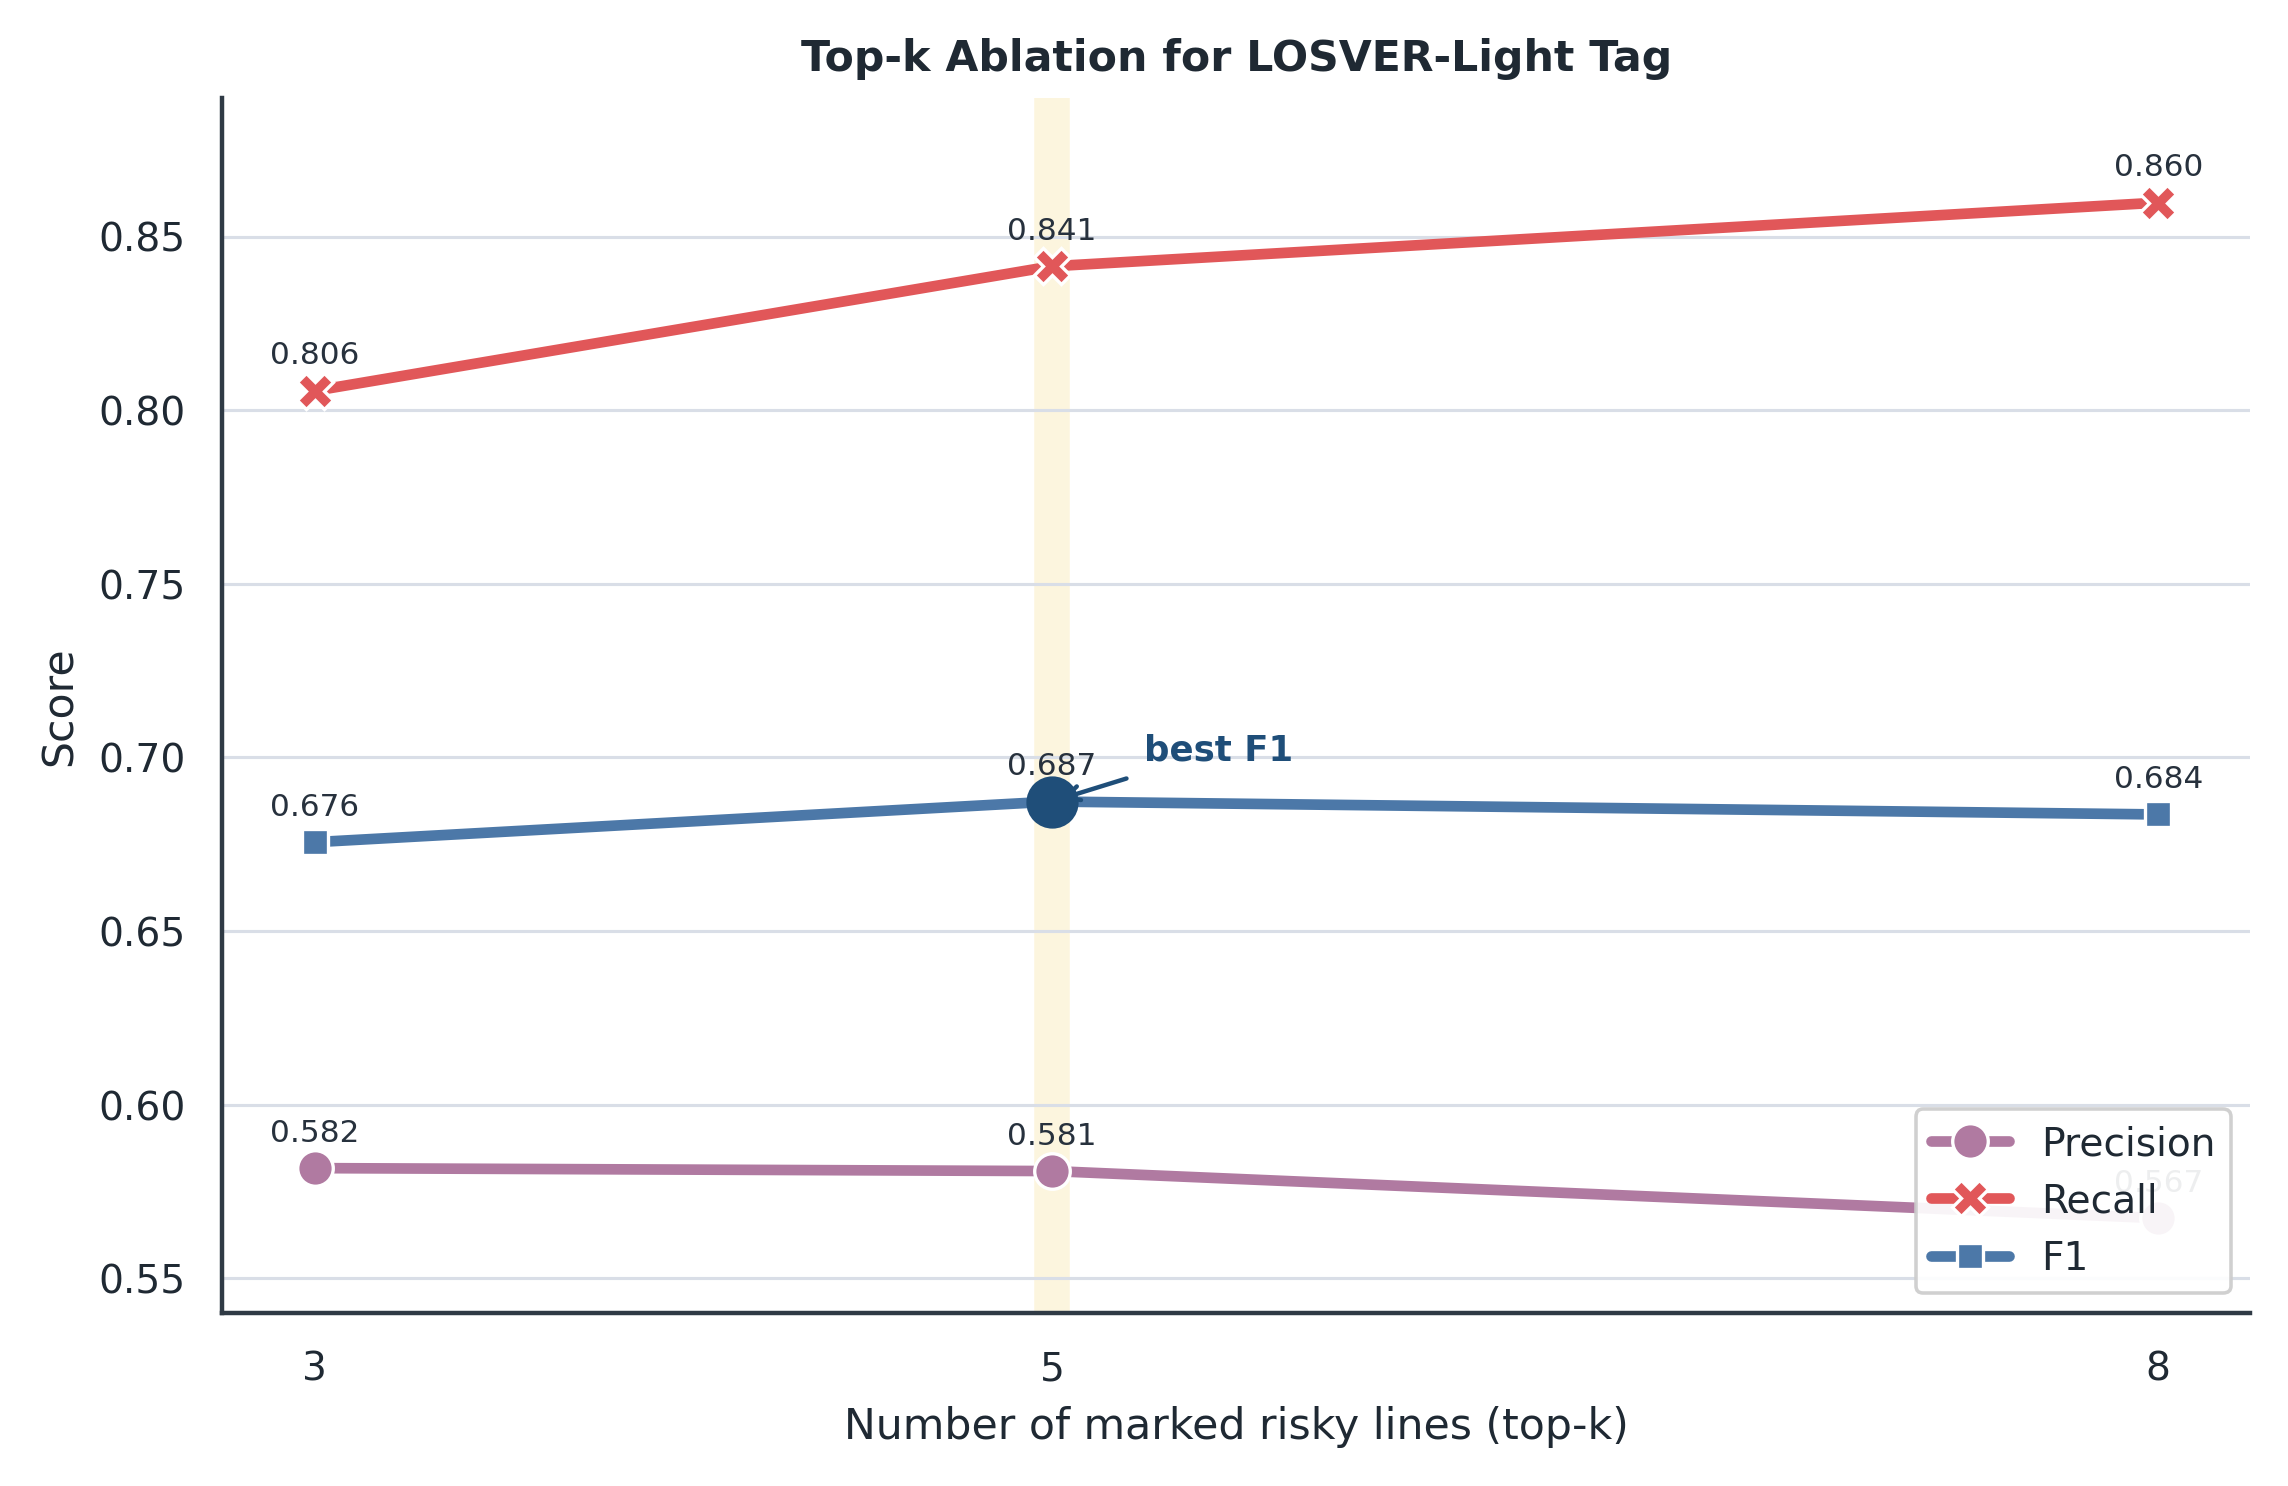
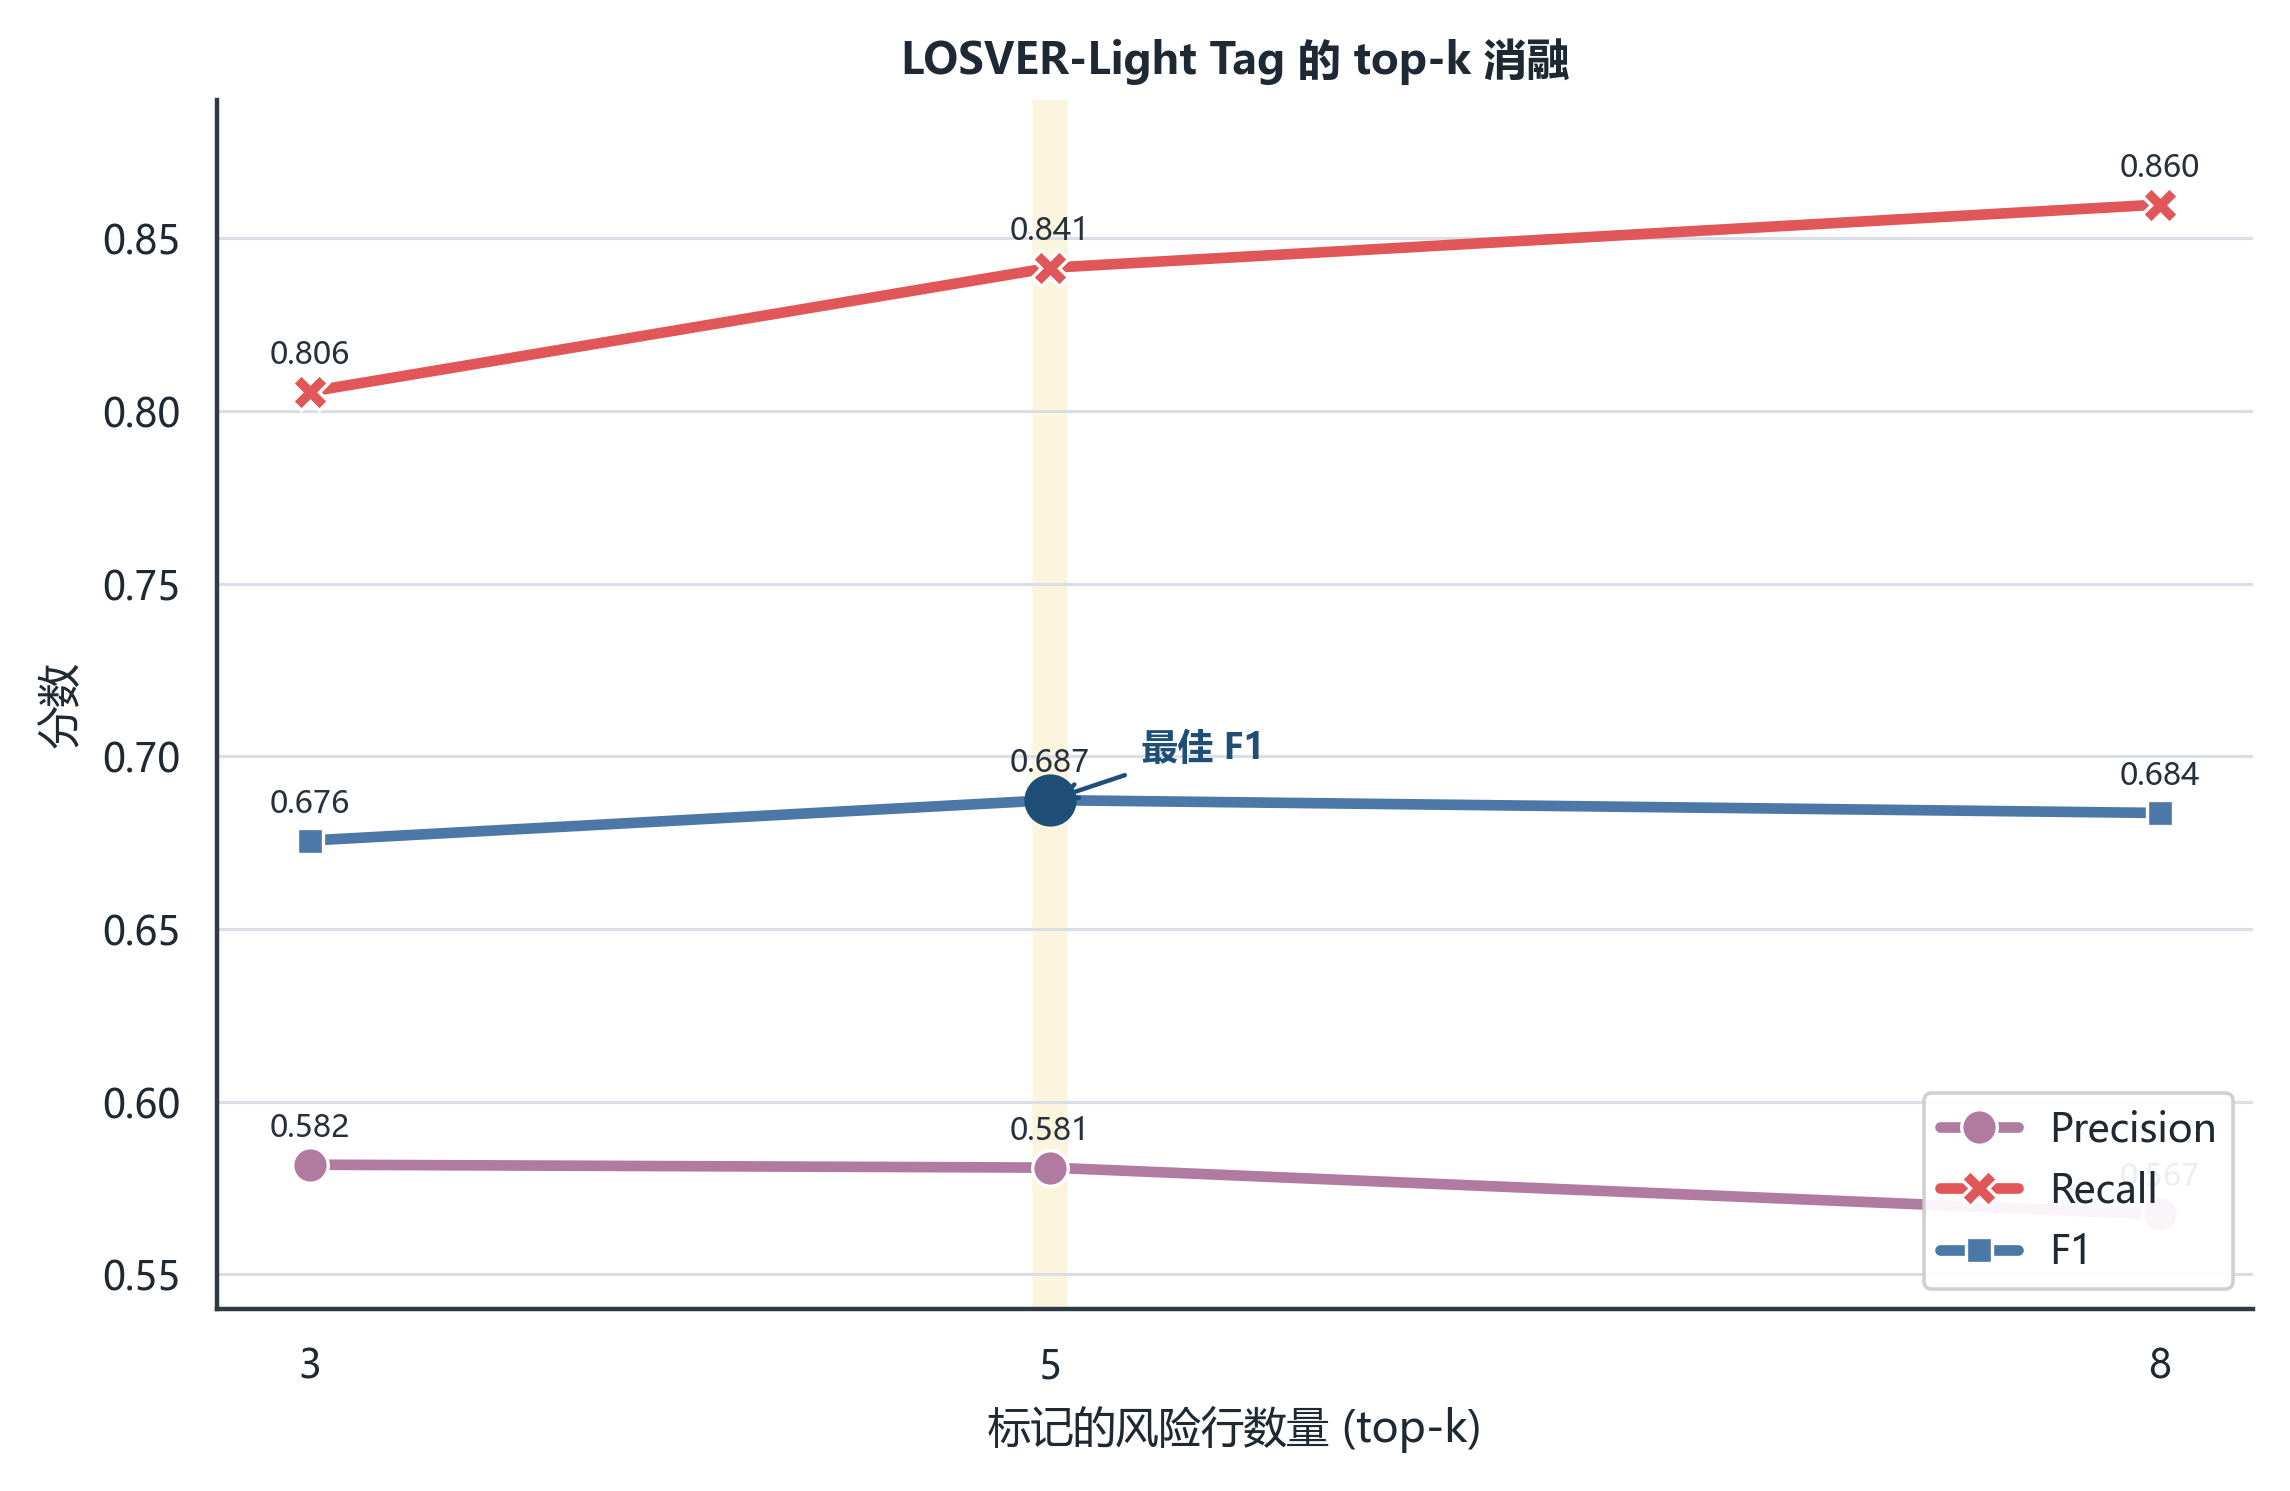
Localize report figures to Chinese

diff --git a/src/plot_results.py b/src/plot_results.py
@@ -12,7 +12,7 @@ import seaborn as sns
 
 
 RUN_LABELS = {
-    "run_metrics_seed42": "Metrics\nBaseline",
+    "run_metrics_seed42": "度量\n基线",
     "run_vanilla_seed42": "Vanilla\nQwen",
     "run_losver_tag_seed42": "LOSVER-Light\nTag",
     "run_losver_prefix_seed42": "LOSVER-Light\nTag+Prefix",
@@ -34,14 +34,14 @@ METRIC_LABELS = {
 }
 
 ERROR_LABELS = {
-    "error_or_resource_management_false_alarm": "Error/resource\nfalse alarm",
-    "long_function_or_truncation": "Long function\nor truncation",
-    "control_flow_or_pointer_false_alarm": "Control-flow /\npointer false alarm",
-    "io_or_parser_false_alarm": "I/O or parser\nfalse alarm",
-    "semantic_or_context_dependent_vulnerability": "Context-dependent\nvulnerability",
-    "weak_or_misleading_line_signal": "Weak/misleading\nline signal",
-    "benign_wrapper_or_accessor": "Benign wrapper\nor accessor",
-    "dangerous_api_missed_in_long_function": "Dangerous API\nmissed in long function",
+    "error_or_resource_management_false_alarm": "错误/资源管理\n误报",
+    "long_function_or_truncation": "长函数或\n截断",
+    "control_flow_or_pointer_false_alarm": "控制流/指针\n误报",
+    "io_or_parser_false_alarm": "I/O 或解析器\n误报",
+    "semantic_or_context_dependent_vulnerability": "上下文依赖\n漏洞",
+    "weak_or_misleading_line_signal": "弱/误导性\n行信号",
+    "benign_wrapper_or_accessor": "良性包装/访问器\n函数",
+    "dangerous_api_missed_in_long_function": "长函数中危险 API\n漏报",
 }
 
 
@@ -67,7 +67,16 @@ def configure_style() -> None:
             "ytick.color": "#1f2933",
             "text.color": "#1f2933",
             "axes.titleweight": "bold",
-            "font.family": "DejaVu Sans",
+            "font.family": "sans-serif",
+            "font.sans-serif": [
+                "Microsoft YaHei",
+                "SimHei",
+                "Noto Sans CJK SC",
+                "Source Han Sans SC",
+                "Arial Unicode MS",
+                "DejaVu Sans",
+            ],
+            "axes.unicode_minus": False,
             "savefig.bbox": "tight",
             "savefig.pad_inches": 0.12,
         }
@@ -124,7 +133,7 @@ def plot_main_results(csv_path: Path, out_path: Path, dpi: int) -> None:
         ax.text(
             tag_idx,
             0.807,
-            "best overall",
+            "综合最佳",
             ha="center",
             va="top",
             fontsize=8,
@@ -134,9 +143,9 @@ def plot_main_results(csv_path: Path, out_path: Path, dpi: int) -> None:
         )
 
     annotate_bars(ax, fontsize=7)
-    ax.set_title("Main Test Results")
+    ax.set_title("主实验测试集结果")
     ax.set_xlabel("")
-    ax.set_ylabel("Score")
+    ax.set_ylabel("分数")
     ax.set_ylim(0.45, 0.82)
     ax.legend(title="", ncol=3, loc="upper left", frameon=True, framealpha=0.96)
     ax.grid(axis="y", color="#d9dee7", linewidth=0.7)
@@ -190,7 +199,7 @@ def plot_topk_ablation(csv_path: Path, out_path: Path, dpi: int) -> None:
     best_f1 = df.loc[df["f1"].idxmax()]
     ax.scatter([best_f1["top_k"]], [best_f1["f1"]], s=120, color="#1F4E79", zorder=5)
     ax.annotate(
-        "best F1",
+        "最佳 F1",
         xy=(best_f1["top_k"], best_f1["f1"]),
         xytext=(best_f1["top_k"] + 0.25, best_f1["f1"] + 0.012),
         arrowprops={"arrowstyle": "->", "color": "#1F4E79", "lw": 1.0},
@@ -210,9 +219,9 @@ def plot_topk_ablation(csv_path: Path, out_path: Path, dpi: int) -> None:
             color="#27313d",
         )
 
-    ax.set_title("Top-k Ablation for LOSVER-Light Tag")
-    ax.set_xlabel("Number of marked risky lines (top-k)")
-    ax.set_ylabel("Score")
+    ax.set_title("LOSVER-Light Tag 的 top-k 消融")
+    ax.set_xlabel("标记的风险行数量 (top-k)")
+    ax.set_ylabel("分数")
     ax.set_xticks([3, 5, 8])
     ax.set_ylim(0.54, 0.89)
     ax.legend(title="", loc="lower right", frameon=True, framealpha=0.92)
@@ -255,8 +264,8 @@ def plot_error_summary(csv_path: Path, out_path: Path, dpi: int) -> None:
             fontweight="bold",
         )
 
-    ax.set_title("Manual Error Analysis Categories")
-    ax.set_xlabel("Number of reviewed cases")
+    ax.set_title("人工错例分析类别")
+    ax.set_xlabel("人工复核样本数")
     ax.set_ylabel("")
     ax.set_xlim(0, max(df["count"]) + 0.9)
     ax.grid(axis="x", color="#d9dee7", linewidth=0.7)
@@ -265,8 +274,8 @@ def plot_error_summary(csv_path: Path, out_path: Path, dpi: int) -> None:
     from matplotlib.patches import Patch
 
     legend_items = [
-        Patch(facecolor="#D98C72", edgecolor="#2f3a45", label="Mostly false positives"),
-        Patch(facecolor="#6C8EBF", edgecolor="#2f3a45", label="Mostly false negatives / weak signals"),
+        Patch(facecolor="#D98C72", edgecolor="#2f3a45", label="主要为误报"),
+        Patch(facecolor="#6C8EBF", edgecolor="#2f3a45", label="主要为漏报/弱信号"),
     ]
     ax.legend(handles=legend_items, loc="lower right", frameon=True, framealpha=0.92)
     sns.despine(ax=ax, left=False, bottom=False)